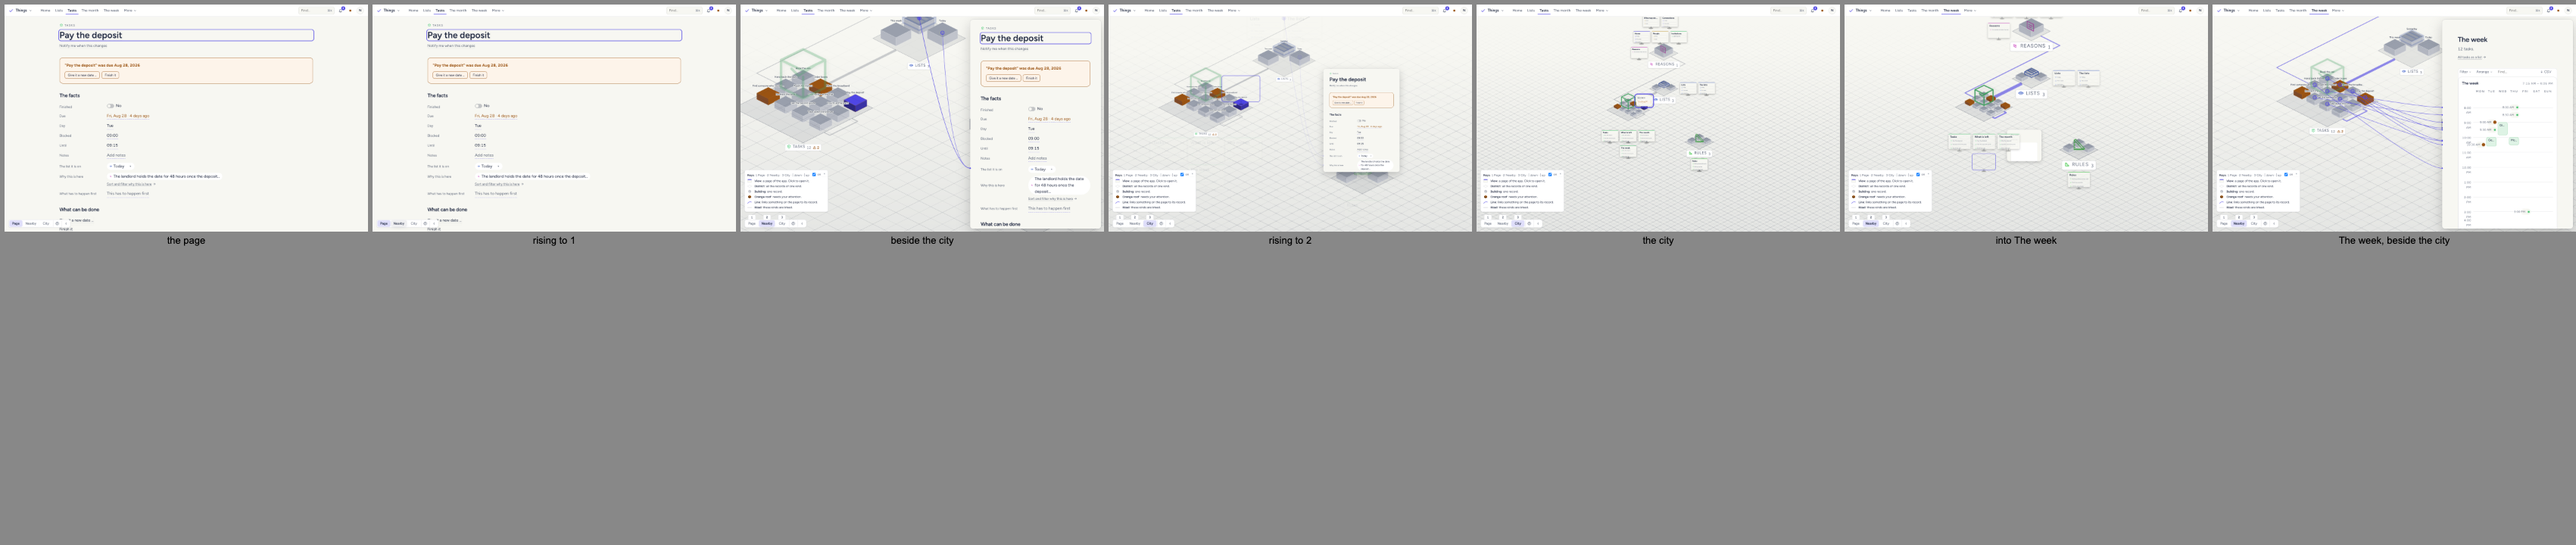
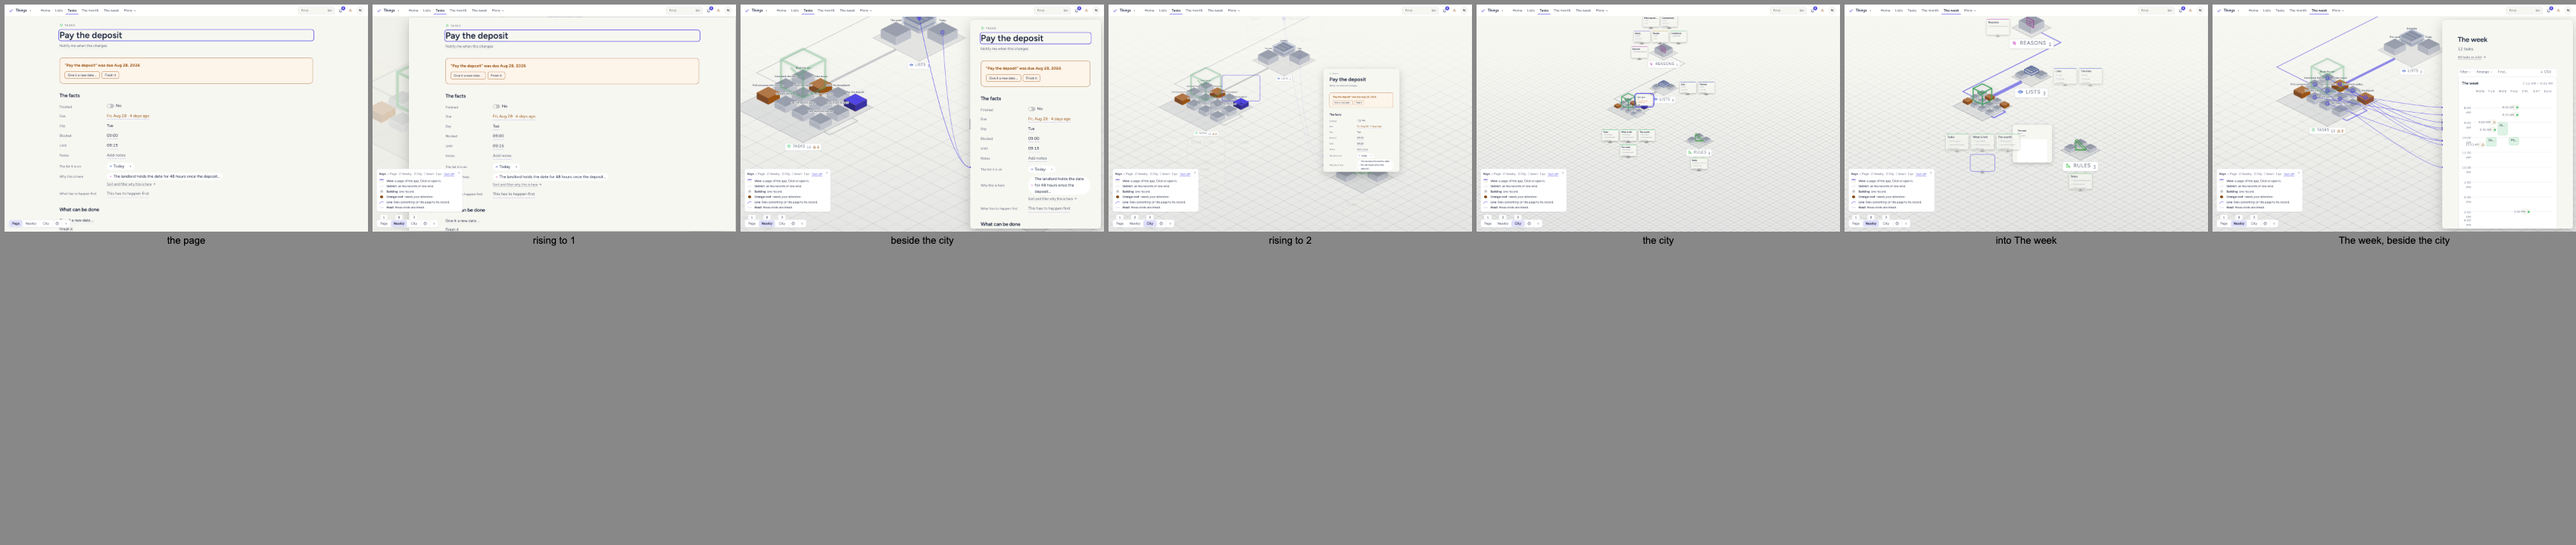
The legend says whether the level's keys are on, with a button that turns them off or back on, and the one face draws no district menu of views
A bare checkbox labeled "on" read as the keys being off while they worked. The keys line now says which they are, and off it says Alt and the arrows still move a level. The Scene's district menu of views is not drawn under the one face, where each view stands as its own billboard.

diff --git a/packages/pages/src/one-place.tsx b/packages/pages/src/one-place.tsx
@@ -836,6 +836,7 @@ const ONE_PLACE_CSS = `
   [data-graview-mini-tool] { width: 44px; height: 44px; margin: 0; }
   [data-testid="altitude-key-pane"] { padding-right: 48px !important; }
   [data-testid="altitude-key-pane"] [data-testid="altitude-key-hide"] { width: 44px !important; height: 44px !important; top: 0 !important; right: 0 !important; }
+  [data-testid="altitude-keys-turn"] { min-height: 44px !important; min-width: 44px !important; }
 }
 `;
 
@@ -1207,26 +1208,36 @@ function FootRoom({ fab, sheet }: { readonly fab: RefObject<HTMLDivElement | nul
   return <div ref={room} aria-hidden="true" data-graview-altitude-room="" style={{ height }} />;
 }
 
-/** The single keys, on or off, as a person may want them off (WCAG 2.1.4). */
-function KeysSwitch() {
+/** The level's keys, said as they are now, with the one button that turns them off or back on (WCAG 2.1.4). A bare checkbox read as "off" while the keys worked; the line itself says which it is. */
+function KeysLine() {
   const [on, setOn] = useState(keysOn);
+  const turn = () => {
+    const next = !on;
+    setOn(next);
+    try {
+      window.localStorage.setItem(KEYS_KEY, next ? "on" : "off");
+    } catch {
+      // Kept for this visit only.
+    }
+  };
+  const button = (
+    <button
+      type="button"
+      data-testid="altitude-keys-turn"
+      aria-pressed={on}
+      aria-label={on ? "Level keys are on: turn them off" : "Level keys are off: turn them on"}
+      onClick={turn}
+      style={{ display: "inline-flex", alignItems: "center", minHeight: 24, minWidth: 24, marginLeft: 6, padding: "0 4px", verticalAlign: "middle", border: "none", background: "none", color: "var(--graview-accent)", font: "inherit", textDecoration: "underline", textUnderlineOffset: 2, cursor: "pointer" }}
+    >
+      {on ? "Turn off" : "Turn on"}
+    </button>
+  );
   return (
-    <label style={{ display: "inline-flex", alignItems: "center", gap: 4, marginLeft: 6, color: "var(--graview-ink-muted)" }}>
-      <input
-        type="checkbox"
-        data-testid="altitude-keys-on"
-        checked={on}
-        onChange={(event) => {
-          setOn(event.target.checked);
-          try {
-            window.localStorage.setItem(KEYS_KEY, event.target.checked ? "on" : "off");
-          } catch {
-            // Kept for this visit only.
-          }
-        }}
-      />
-      on
-    </label>
+    <p data-testid="altitude-key-keys" data-graview-keys={on ? "on" : "off"} style={{ margin: "0 0 6px", color: "var(--graview-ink-muted)" }}>
+      <strong style={{ fontWeight: 600, color: "var(--graview-ink)" }}>Keys</strong>
+      {on ? ": 1 Page · 2 Nearby · 3 City · [ down · ] up" : " are off: Alt ↑ up · Alt ↓ down"}
+      {button}
+    </p>
   );
 }
 
@@ -1257,10 +1268,7 @@ function CityKey({ close }: { readonly close: () => void }) {
       <button type="button" data-testid="altitude-key-hide" aria-label="Put the legend away" onClick={close} style={{ position: "absolute", top: 2, right: 2, width: 24, height: 24, padding: 0, border: "none", borderRadius: 4, background: "none", color: "var(--graview-ink-muted)", font: "inherit", cursor: "pointer" }}>
         ×
       </button>
-      <p data-testid="altitude-key-keys" style={{ margin: "0 0 6px", color: "var(--graview-ink-muted)" }}>
-        <strong style={{ fontWeight: 600, color: "var(--graview-ink)" }}>Keys</strong>: 1 Page · 2 Nearby · 3 City · [ down · ] up{" "}
-        <KeysSwitch />
-      </p>
+      <KeysLine />
       <ul style={{ listStyle: "none", margin: 0, padding: 0, display: "grid", gap: 3 }}>
         {rows.map(([mark, term, words]) => (
           <li key={term} style={{ display: "grid", gridTemplateColumns: "18px 1fr", gap: 10, alignItems: "start", lineHeight: "18px" }}>

diff --git a/packages/pages/src/one-place-city.tsx b/packages/pages/src/one-place-city.tsx
@@ -54,7 +54,7 @@ const recordShownBy = (element: Element): string | null => element.getAttribute(
  * stays lit as the Scene lights it, and everything else is quiet.
  */
 const CITY_CSS = `
-[data-testid="one-place-city"] .graview-zoom, [data-testid="one-place-city"] .graview-edge-sign, [data-testid="one-place-city"] .graview-record-links { display: none; }
+[data-testid="one-place-city"] .graview-zoom, [data-testid="one-place-city"] .graview-edge-sign, [data-testid="one-place-city"] .graview-record-links, [data-testid="one-place-city"] .graview-drive-in { display: none; }
 [data-testid="one-place-city"] .graview-building[data-graview-here] { translate: 0 -7px; }
 [data-testid="one-place-city"] .graview-building[data-graview-here] .graview-iso-roof { fill: var(--graview-accent); }
 [data-testid="one-place-city"] .graview-building[data-graview-here] .graview-iso-left { fill: color-mix(in srgb, var(--graview-accent) 55%, black); }

diff --git a/.changeset/pages-and-the-scene-are-one-place.md b/.changeset/pages-and-the-scene-are-one-place.md
@@ -11,7 +11,7 @@ There is one face, so the bar offers no Scene/Pages switch, no "In the scene" li
 
 `graview check` now names two views that show the same thing (`view-duplicates-another`): a view that is only a kind's list, or two views drawing the same picture under two titles. It says which to keep and carries the `remove-lens` edit that removes the other. docs/pages-and-lenses-are-one.md sets out how pages and lenses become one view, the format upgrade that moves a stored document, and what Graview Cloud changes.
 
-Lines keep to the city at every frame: each leaves the page's edge past whatever stands there and runs clear of the control, the legend over it and the timeline beside it, each read as its own rect in the frame that draws it; a line with no way through is not drawn, and a line's end keeps clear of the panel's edge. The City is fitted beside what stands at the foot (above it, or to its right and above the control) and fitted again when the legend is opened or put away there. A view stands on its own district at every width: under its name where that is nearest its own ground, else behind or beside it. On a phone the legend starts put away, and once opened it is kept open. The control's tooltips come on intent: after the pointer rests 600 ms, at once on the next stop for 300 ms after one has shown, at once on the keyboard's focus, and on a long press by a finger. Put away, the control is the same control made shorter: one row at its full height with the level's name (which opens the legend), a track with the thumb inside its ends, and the way back to all three levels; every target is 24 pixels at a desk and 44 on a phone. The page keeps room at its foot only where the control would stand over its words when scrolled to the end, never an empty band. In the Find box the down arrow goes onto the first thing found, and Enter goes there; a result chosen after typing takes the search's place in the history, so Back goes where Find was opened. At the City that lands at Nearby on the record or place chosen.
+Lines keep to the city at every frame: each leaves the page's edge past whatever stands there and runs clear of the control, the legend over it and the timeline beside it, each read as its own rect in the frame that draws it; a line with no way through is not drawn, and a line's end keeps clear of the panel's edge. The City is fitted beside what stands at the foot (above it, or to its right and above the control) and fitted again when the legend is opened or put away there. A view stands on its own district at every width: under its name where that is nearest its own ground, else behind or beside it. On a phone the legend starts put away, and once opened it is kept open. The control's tooltips come on intent: after the pointer rests 600 ms, at once on the next stop for 300 ms after one has shown, at once on the keyboard's focus, and on a long press by a finger. Put away, the control is the same control made shorter: one row at its full height with the level's name (which opens the legend), a track with the thumb inside its ends, and the way back to all three levels; every target is 24 pixels at a desk and 44 on a phone. The page keeps room at its foot only where the control would stand over its words when scrolled to the end, never an empty band. The Scene's menu of a district's views is not drawn on the one face, where each view stands as its own billboard. The legend's keys line says whether the level's single keys are on, with one button that turns them off or back on; off, it says Alt and the arrows still move a level. In the Find box the down arrow goes onto the first thing found, and Enter goes there; a result chosen after typing takes the search's place in the history, so Back goes where Find was opened. At the City that lands at Nearby on the record or place chosen.
 
 Tests: `a-page-stands-on-its-place-in-the-scenes-city` (pages) and `two-views-that-show-the-same-thing-are-found` (core). The `one-face` harness (`pnpm verify one-face`) holds the rest.
 

diff --git a/docs/pages-and-lenses-are-one.md b/docs/pages-and-lenses-are-one.md
@@ -251,8 +251,9 @@ app compile side by side, and reading a document twice changes nothing.
   (navigation, scene-hands, drive-in, chrome, menu, seat and others) still
   drive the Scene's own face at the root. A person at the root of Things or
   the discography is sent to the one face; a driven browser is not.
-- **district-views-menu**: the district label's legacy menu of views,
-  routed through "choose a view".
+- **district-views-menu**: the district label's legacy menu of views is not
+  drawn on the one face (each view stands as its billboard); removing it from
+  the Scene's own face goes with one-face-by-default.
 - **worker-view-lines**: lines from a worker view's `data-record` parts,
   reported by the guest host through the frame.
 - **custom-view fixtures** through the harness: a worker view, a product
